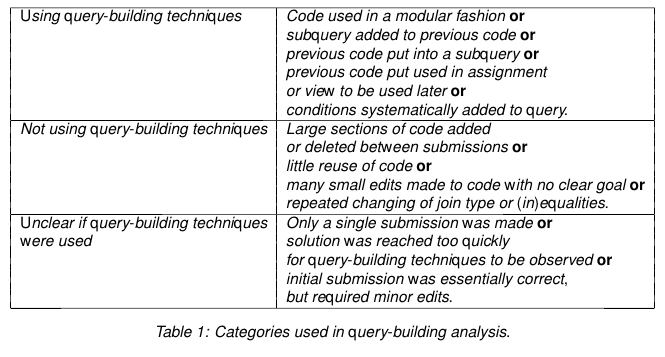
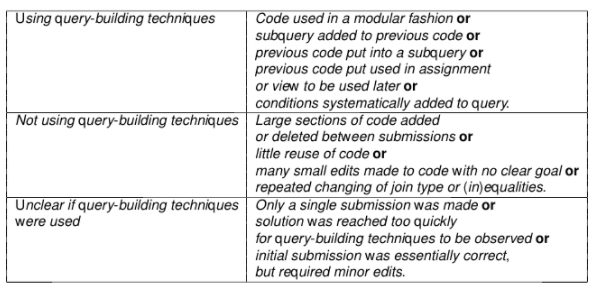
2016 edition

diff --git a/_posts/2016-11-24-SongGary.md b/_posts/2016-11-24-SongGary.md
@@ -28,6 +28,7 @@ New Dump* - is satisfied, which it is, then the goal *Manage City Waste*
 will also be satisfied during analysis.
 
 <img style="margin:50" src="{{ site.baseurl }}/assets/gs-fig1.png"/>
+<p style="text-align:center">Figure 1: City goal model</p>
 
 GrowingLeaf is a web-based goal modelling tool that enables reasoning
 about changing satisfaction levels over time by identifying intention
@@ -56,6 +57,7 @@ Task\_A is initially denied (D) and becomes satisfied (S) from some time
 point “A” onwards (see Figure 2A).
 
 <img style="margin:50" src="{{ site.baseurl }}/assets/gs-fig2.png"/>
+<p style="text-align:center">Figure 2: Task A (left) and Task B (right)</p>
 
 We extended our previous work by allowing users to specify their own
 time functions (see Figure 2B). This enables the modelling of intentions
@@ -71,6 +73,7 @@ a constraint link, specifying that time “A” for Task\_A happens before
 time “C” for Task\_B, as shown in Figure 3.
 
 <img style="margin:50" src="{{ site.baseurl }}/assets/gs-fig3.png"/>
+<p style="text-align:center">Figure 3: Between intention constraints</p>
 
 However, adding constraints to the graphical model made it difficult for
 users to distinguish between model relationships and constraints. To
@@ -104,6 +107,7 @@ steps, or merge all analysis values together. In models where there are
 multiple outcomes, this feature makes comparing results easier.
 
 <img style="margin:50" src="{{ site.baseurl }}/assets/gs-fig4.png"/>
+<p style="text-align:center">Figure 4: City goal model analysis</p>
 
 
 Querying is a feature that allows users to probe their model by

diff --git a/_posts/2016-11-24-WangZihan.md b/_posts/2016-11-24-WangZihan.md
@@ -51,6 +51,7 @@ combined with the unlabeled disease-author associations from OMIM to
 form the complete data set.
 
 <img style="margin:50" src="{{ site.baseurl }}/assets/wz-fig1.png"/>
+<p style="text-align:center">Figure 1: Data analysis workflow. </p>
 
 To combine these data sets, author names needed to be extracted from
 both OMIM references and GeneReviews articles and then merged, and
@@ -93,11 +94,10 @@ Analysis
 
 The SVM classifier outperformed the other methods in accuracy,
 precision, and F1 measure, with both precision and recall of 76% (see
-Table \[tab:performance\]). The Random Forest and naive Bayes models
+Table 1). The Random Forest and naive Bayes models
 performed slightly worse, though the naive Bayes model achieved higher
 recall than the SVM (78%).
 
-<img style="margin:50" src="{{ site.baseurl }}/assets/wz-fig1.png"/>
 
 Most disease-author associations were confidently classified by the SVM,
 and misclassified cases were often confidently misclassified (see
@@ -113,7 +113,7 @@ author has simply not published in GeneReviews. The classifier predicted
 
 <img style="margin:50" src="{{ site.baseurl }}/assets/wz-figure2.png"/>
 
-Figure 2: Distributions of the posterior probability from the SVM classifier for positive (left) and negative (right) test data during one iteration of cross-validation. 
+<p style="text-align:center">Figure 2: Distributions of the posterior probability from the SVM classifier for positive (left) and negative (right) test data during one iteration of cross-validation. </p>
 
 Conclusion
 ==========

diff --git a/_posts/2016-11-24-Kadan-Amit.md b/_posts/2016-11-24-Kadan-Amit.md
@@ -11,8 +11,8 @@ permalink: /software-engineering/amit-kadan
 Introduction
 ============
 
-<img style="margin:50" src="{{ site.baseurl }}/assets/k-figA.png"/>
-<img style="margin:50" src="{{ site.baseurl }}/assets/k-figB.png"/>
+<img style="margin:50" src="{{ site.baseurl }}/assets/kadan1.png"/>
+<img style="margin:50" src="{{ site.baseurl }}/assets/kadan2.png"/>
 
 **Figure 1:** Sample inputs $N_{1}, N_{2}$ and $N_{3}$.
  
@@ -42,8 +42,8 @@ computationally expensive problem by encoding it into a game for people
 to play [8].
 
 
-<img style="margin:50" src="{{ site.baseurl }}/assets/k-figC.png"/>
-
+<img style="margin:50" src="{{ site.baseurl }}/assets/kadan3.png"/>
+<p style="text-align:center">Main screen fo the Matchmakers game.</p>
 
 Approach
 ========
@@ -129,7 +129,8 @@ significant improvement over the solutions found by the best heuristic
 algorithm.
 
 
-<img style="margin:50" src="{{ site.baseurl }}/assets/k-alg1.png"/>
+<img style="margin:50" src="{{ site.baseurl }}/assets/kadan4.png"/>
+<p style="text-align:center">Algorithm 1: Conceptual steps of HSim.</p>
 
 
 Conclusion
@@ -155,7 +156,7 @@ intelligent strategies for finding an n-way match in hopes of improving
 its performance.
 
 Acknowledgments 
-===============
+----
 
 We thank Christina Chung, Asako Matsuoka, Yueti Yang, Si Hua Cao Liu,
 Lionheart Xiong, and Angel You for developing the game and Nicole

diff --git a/_posts/2016-11-24-WindsorDennis.md b/_posts/2016-11-24-WindsorDennis.md
@@ -45,6 +45,7 @@ a number of discrete pieces of code while only making a single
 submission.
 
 <img style="margin:50" src="{{ site.baseurl }}/assets/dw-table1.png"/>
+<p style="text-align:center">Table 1: categories used in query-building analysis</p>
 
 Approach
 ========
@@ -123,7 +124,11 @@ this course as assignment was in RA. This could mean that instead of
 identifying students who are using a technique taught in the course, we
 have identified students who had previous knowledge of SQL.
 
-<img style="margin:50" src="{{ site.baseurl }}/assets/dw-table23.png"/>
+<img style="margin:50" src="{{ site.baseurl }}/assets/dw-table2.png"/>
+<p style="text-align:center">Table 2: Influence of using query-building techniques on course grades (Welch two sample t-test)</p>
+
+<img style="margin:50" src="{{ site.baseurl }}/assets/dw-table3.png"/>
+<p style="text-align:center">Table 3: Influence of using assginment in a single query on course grades (Welch two sample t-test)</p>
 
 
 Conclusion
@@ -143,11 +148,12 @@ building techniques and/or use of views and assignment.
 
 
 Acknowledgements
-===
+----
+
 I would to like to thank Diane Horton, Bogdan Simion, and Andrew
 Petersen for their invaluable guidance. I would also like to thank
 Alireza Ahadi of the University of Technology Sydney for his input on my
-research.\
+research.
 
 References
 ---------

diff --git a/_posts/2016-11-24-XuOlga.md b/_posts/2016-11-24-XuOlga.md
@@ -154,12 +154,12 @@ fluctuates when there are multiple people in the images (shown in figure
 our CNN face/non-face classifier, reaching 91% accuracy, 90% recall and
 92% precision rate on our test images.
 
-<img style="margin:50" src="{{ site.baseurl }}/assets/xu-wrong1.png"/>
-<img style="margin:50" src="{{ site.baseurl }}/assets/xu-wrong2.png"/>
+<img style="margin:50" src="{{ site.baseurl }}/assets/xu-wrong1.jpg"/>
+<img style="margin:50" src="{{ site.baseurl }}/assets/xu-wrong2.jpg"/>
 <p style="text-align:center">Figure 3: Poor performing examples of multi-face detection using Zhu's algorithm.</p>
 
-<img style="margin:50" src="{{ site.baseurl }}/assets/xu-faceDetect2.png.png"/>
-<img style="margin:50" src="{{ site.baseurl }}/assets/xu-faceDetect3.png.png"/>
+<img style="margin:50" src="{{ site.baseurl }}/assets/xu-faceDetect2.png"/>
+<img style="margin:50" src="{{ site.baseurl }}/assets/xu-faceDetect3.jpg"/>
 <p style="text-align:center">Figure 4: Examples of face detection on IMDB.</p>
 
 Siamese Network
@@ -191,7 +191,7 @@ videos. An interesting future project may be to implement an algorithm
 that provides similarity scores in face tracks.
 
 Acknowledgement
-===
+----
 
 I would like to express my deepest gratitude to my supervisor, Sanja
 Fidler, and my mentor, Lluis Castrejon, for their excellent guidance and

diff --git a/_posts/2016-11-24-YangDanniel.md b/_posts/2016-11-24-YangDanniel.md
@@ -103,7 +103,8 @@ explain the success of IDA\*-based approaches seen in the literature, in
 which random sampling is the standard way to generate test sets
 [4, 6].
 
-<img style="margin:50" src="{{ site.baseurl }}/assets/yd-table1.png"/>
+<img style="justify-content: center" src="{{ site.baseurl }}/assets/yangDaniel1.png"/>
+<p style='text-align:center'>Table  1:  Heuristic  accuracy  on  all  stacks  of  10  pancakes.   The  entries  are  thenumber of problems with the corresponding heuristic error.</p>
 
 Table 1 also displays heuristic error information for our new
 heuristic functions. It shows that these functions are increasingly
@@ -120,7 +121,8 @@ relative to the gap heuristic function, where a larger value indicates a
 greater speedup. Clearly, the new heuristics lead to substantial
 speedups on both test sets.
 
-<img style="margin:50" src="{{ site.baseurl }}/assets/yd-table2.png"/>
+<img style="margin:50" src="{{ site.baseurl }}/assets/yangDaniel2.png"/>
+<p style='text-align:center'>Table 2:  The relative performance of IDA* when using different heuristic functionson two problem sets. The table shows the speedup seen relative to the gap heuristicfunction.</p>
 
 Conclusion
 ==========

diff --git a/_posts/2016-11-24-WangYawen.md b/_posts/2016-11-24-WangYawen.md
@@ -118,8 +118,8 @@ iPhones, and 0.136 for Android.
 
 
 
-<img style="margin:50" src="{{ site.baseurl }}/assets/batter-drain.pdf"/>
-Battery Drain Across Phones (full discharge cycle)
+<img style="margin:50" src="{{ site.baseurl }}/assets/battery_drain.png"/>
+<p style="text-align:center">Battery Drain Across Phones (full discharge cycle)</p>
 
 
 We also measured voltage and current naively for a Galaxy Nexus device
@@ -130,7 +130,7 @@ average battery drain rate from the sw-reported SoC was found to be
 fairly accurate with a small % error of 4.27%.
 
 <img style="margin:50" src="{{ site.baseurl }}/assets/wy-sw_hw.png"/>
-SW vs HW Measured State of Charge
+<p style="text-align:center">SW vs HW Measured State of Charge</p>
 
 We ran battery monitoring at various frequencies on identical phones and
 compared with a baseline phone. We observed that periods longer than 30m
@@ -154,7 +154,7 @@ configurable settings allowing easier adoption of this technique.
 
 
 Acknowledgement
-===
+----
 
 This work was funded by the NSF SUPERB Program. I would like to thank my
 mentor K. Shankari, Jonathan F<span>ü</span>rst, and Professor David

diff --git a/_posts/2016-11-24-WatsonJulia.md b/_posts/2016-11-24-WatsonJulia.md
@@ -112,15 +112,17 @@ otherwise genetically and geographically diverse.
 
 <img style="margin:50" src="{{ site.baseurl }}/assets/jw-figure1.jpg"/>
 
-Figure 1: Map manually created by Haspelmath for his data.This diagram is labelled with the groupings for English
+<p style='text-align:center'>Figure 1: Map manually created by Haspelmath for his data.This diagram is labelled with the groupings for English</p>
 
 <img style="margin:50" src="{{ site.baseurl }}/assets/jw-figure2.jpg"/>
+<p style='text-align:center'>Figure 2: Connectedness  map  automatically  constructed  using  Haspelmath  data  andconnectedness objective function.
+</p>
 
-Figure  2:  Connectedness  map  automatically  constructed  using  Haspelmath  data  andconnectedness objective function.
 
 <img style="margin:50" src="{{ site.baseurl }}/assets/jw-figure3.jpg"/>
+<p style='text-align:center'>Figure 3: Combined  map  automatically  constructed  using  Haspelmath  data  andcombined objective function
+</p>
 
-Figure  3:Combined  map  automatically  constructed  using  Haspelmath  data  andcombined objective function
 
 Results
 =======

diff --git a/_posts/2016-11-24-OuyangJun.md b/_posts/2016-11-24-OuyangJun.md
@@ -100,11 +100,11 @@ example (the plots for other methods are omitted here).
 
 <img style="margin:50" src="{{ site.baseurl }}/assets/jun-1.png"/>
 
-![Parameters of the European put option:
+<p style="text-align:center">Parameters of the European put option:
 $E = 10, r = 0.1, \sigma = 0.4, T-t = 1$. The left is the estimated
 value of the option while the right is the absolute value of the error
 from estimating this option using the Crank-Nicolson LU
-Method.](1.png) 
+Method.</p>
 
 Note that in general, the magnitude of error compared to the
 <span>*Black-Scholes*</span> formula is less than 4e-3, which is
@@ -125,7 +125,8 @@ $(\delta x)^2$ respectively (Figure 2).
 
 <img style="margin:50" src="{{ site.baseurl }}/assets/jun-2.png"/>
 
-<p style="text-align:center">Figure 2: parameters of the European put option:
+
+<p style="text-align:center"> Figure 2: parameters of the European put option:
 $E = 10, r = 0.1, \sigma = 0.4, T-t = 1$. The left is plotted by error
 versus dt while the right is by error versus
 $dx^2$.</p>

diff --git a/_posts/2016-11-24-Eric-B.md b/_posts/2016-11-24-Eric-B.md
@@ -155,7 +155,7 @@ even the TEP for trees of arbitrary height $h$. Such a result would
 finally settle the question of whether $L$ equals $P$.
 
 Acknowledgments
-===============
+----
 
 I owe great thanks to my supervisors David Liu and Stephen Cook for
 their helpful guidance and many fruitful discussions throughout the

diff --git a/_posts/2016-11-24-Berlott-Atwell-Ian.md b/_posts/2016-11-24-Berlott-Atwell-Ian.md
@@ -132,7 +132,7 @@ and allows for a modular approach while providing a simple interface
 that conceals the underlying complexity.
 
 Acknowledgement
-===
+----
 
 I would like to acknowledge the support and encouragement received by
 Professor Dr. M. Chechik and Dr. R. Salay in this project.

diff --git a/_posts/2016-11-24-QadriAmmar.md b/_posts/2016-11-24-QadriAmmar.md
@@ -177,7 +177,7 @@ proposes this announced value to $\textit{CONS}[k-x]$, and returns the
 decision.
 
 Acknowledgement
-=======
+----
 
 I would like to thank my supervisor Faith Ellen for her constant support
 and encouragement and the Natural Sciences and Engineering Research
